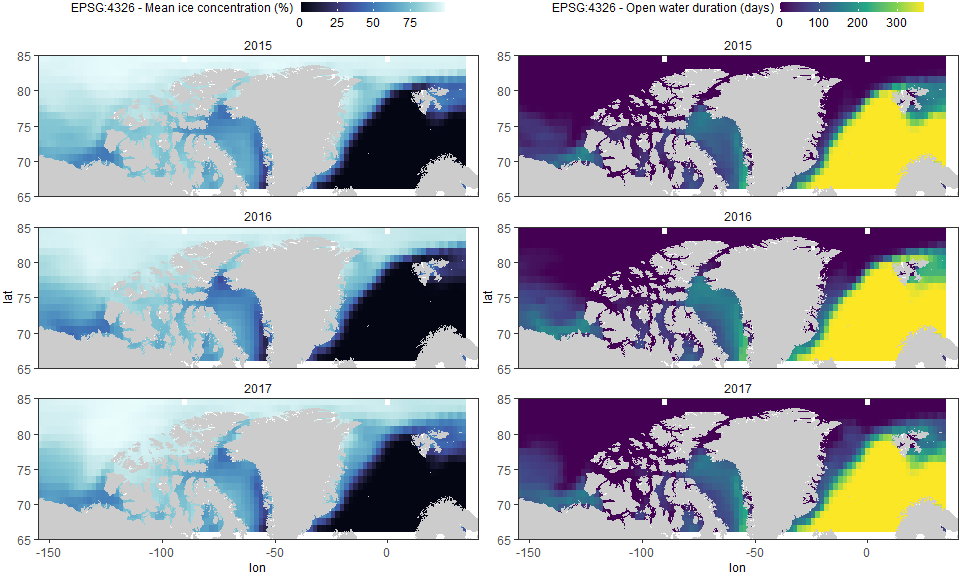
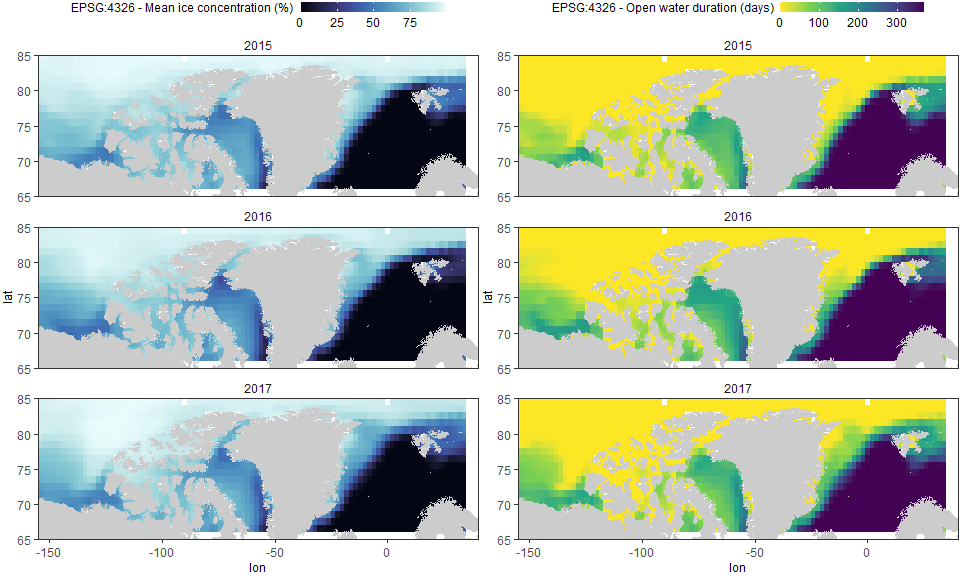
Updated grid resolution for CTD and remote sensing products.

diff --git a/PanArctic_DSL_remote_sensing.md b/PanArctic_DSL_remote_sensing.md
@@ -1,7 +1,7 @@
 PanArctic DSL - Remote sensing
 ================
 [Pierre Priou](mailto:pierre.priou@mi.mun.ca)
-2022/02/04 at 18:18
+2022/02/09 at 11:02
 
 # Package loading
 
@@ -154,14 +154,14 @@ plot_grid(read_csv("data/remote_sensing/sea_ice/20151231_laea_ice_conc.csv") %>%
             geom_tile() + 
             scale_fill_cmocean("Ice concentration (%)", name = "ice") +
             ggtitle("2015-02-12 - CDR") + 
-            coord_fixed(expand = c(0, 0)) +
+            coord_fixed(expand = F) +
             theme(legend.position = "top", legend.key.height = unit(0.1, "in"), legend.key.width = unit(0.3, "in")),
           read_csv("data/remote_sensing/sea_ice/20170212_laea_ice_conc.csv") %>%
             ggplot(aes(x = xc, y = yc, fill = ice_conc)) + 
             geom_tile() + 
             scale_fill_cmocean("Ice concentration (%)", name = "ice") +
             ggtitle("2017-02-12 - ICDR") + 
-            coord_fixed(expand = c(0, 0)) +
+            coord_fixed(expand = F) +
             theme(legend.position = "top", legend.key.height = unit(0.1, "in"), legend.key.width = unit(0.3, "in")),
           ncol = 2, align = "hv", axis = "tblr")
 ```
@@ -209,10 +209,10 @@ and sea ice duration.
 More info on this projection can be found on the [NSIDC
 website](https://nsidc.org/data/ease/). Because “raw” sea ice data has a
 25 km \* 25 km resolution, I match that resolution to the final
-projection (100 km \* 100 km).
+projection (150 km \* 150 km).
 
 ``` r
-cell_res <- 100 # Cell resolution in km
+cell_res <- 150 # Cell resolution in km
 arctic_laea <- raster(extent(-2700, 2700, -2700, 2700), crs = "EPSG:6931") # Seaice projection
 projection(arctic_laea) <- gsub("units=m", "units=km", projection(arctic_laea)) # Convert proj unit from m to km
 res(arctic_laea) <- c(cell_res, cell_res) # Define the 100 km cell resolution
@@ -264,8 +264,9 @@ plot_grid(seaice_grid_laea %>% # Map mean ice concentration
             scale_fill_cmocean("EPSG:6931 - Mean ice concentration (%)", name = "ice") +
             geom_polygon(data = coast_10m_laea, aes(x = xc, y = yc, group = group), fill = "grey80") +
             facet_wrap(~ year, ncol = 3) +
-            coord_fixed(xlim = c(-2700, 1300), ylim = c(-1900, 2000), expand = c(0, 0)) +
-            theme(legend.position = "top", legend.key.height = unit(0.1, "in"), legend.key.width = unit(0.3, "in")),
+            coord_fixed(xlim = c(-2600, 1100), ylim = c(-1800, 1900), expand = F) + 
+            theme(legend.position = "top", legend.key.height = unit(0.1, "in"), legend.key.width = unit(0.3, "in"),
+                  axis.text = element_blank(), axis.ticks = element_blank(), axis.title = element_blank()),
           seaice_grid_laea %>% # Map openwater duration
             filter(is.na(mean_ice_conc) == F) %>% # Remove land
             ggplot() +
@@ -273,8 +274,9 @@ plot_grid(seaice_grid_laea %>% # Map mean ice concentration
             scale_fill_viridis_c("EPSG:6931 - Open water duration (days)") +
             geom_polygon(data = coast_10m_laea, aes(x = xc, y = yc, group = group), fill = "grey80") +
             facet_wrap(~ year, ncol = 3) +
-            coord_fixed(xlim = c(-2700, 1300), ylim = c(-1900, 2000), expand = c(0, 0)) +
-            theme(legend.position = "top", legend.key.height = unit(0.1, "in"), legend.key.width = unit(0.3, "in")),
+            coord_fixed(xlim = c(-2600, 1100), ylim = c(-1800, 1900), expand = F) + 
+            theme(legend.position = "top", legend.key.height = unit(0.1, "in"), legend.key.width = unit(0.3, "in"),
+                  axis.text = element_blank(), axis.ticks = element_blank(), axis.title = element_blank()),
           ncol = 1, align = "hv", axis = "tblr")
 ```
 
@@ -331,16 +333,16 @@ plot_grid(seaice_grid_latlon %>% # Map mean ice concentration
             scale_fill_cmocean("EPSG:4326 - Mean ice concentration (%)", name = "ice") +
             geom_polygon(data = coast_10m_latlon, aes(x = lon, y = lat, group = group), fill = "grey80") +
             facet_wrap(~ year, ncol = 1) +
-            coord_cartesian(xlim = c(-155, 40), ylim = c(65, 85), expand = c(0, 0))  +
+            coord_cartesian(xlim = c(-155, 40), ylim = c(65, 85), expand = F)  +
             theme(legend.position = "top", legend.key.height = unit(0.1, "in"), legend.key.width = unit(0.3, "in")),
           seaice_grid_latlon %>% # Map absolute salinity
             filter(is.na(mean_ice_conc) == F) %>% # Remove land
             ggplot() +
             geom_tile(aes(x = lon, y = lat, fill = openwater_duration)) +
-            scale_fill_viridis_c("EPSG:4326 - Open water duration (days)") +
+            scale_fill_viridis_c("EPSG:4326 - Open water duration (days)", direction = -1) +
             geom_polygon(data = coast_10m_latlon, aes(x = lon, y = lat, group = group), fill = "grey80") +
             facet_wrap(~ year, ncol = 1) +
-            coord_cartesian(xlim = c(-155, 40), ylim = c(65, 85), expand = c(0, 0))  +
+            coord_cartesian(xlim = c(-155, 40), ylim = c(65, 85), expand = F)  +
             theme(legend.position = "top", legend.key.height = unit(0.1, "in"), legend.key.width = unit(0.3, "in")),
           ncol = 2, align = "hv", axis = "tblr")
 ```

diff --git a/PanArctic_DSL_CTD.md b/PanArctic_DSL_CTD.md
@@ -1,7 +1,7 @@
 PanArctic DSL - CTD
 ================
 [Pierre Priou](mailto:pierre.priou@mi.mun.ca)
-2022/02/08 at 10:40
+2022/02/09 at 10:58
 
 # Package loading
 
@@ -33,10 +33,9 @@ CTD data were collected regularly during each of the survey. To match
 CTD records with acoustic data, I rasterized CTD data on the same grid
 as the acoustic data. I tried two different grids; the WGS84 projection
 (EPSG:4326) with grid cells of 2°lon \* 1°lat, and the EASE-Grid 2.0
-North (EPSG:6931) with grid cells of 100 km \* 100 km which is the
-default grid for sea-ice data. For each cell I calculated the mean
-conservative temperature and absolute salinity between 200 and 1000 m
-depth.
+North (EPSG:6931) with grid cells of 150 km \* 150 km. For each cell I
+calculated the mean conservative temperature and absolute salinity
+between 200 and 1000 m depth.
 
 ``` r
 load("data/CTD/CTD_2015_2019.RData") # CTD data
@@ -99,7 +98,7 @@ plot_grid(CTD_grid_latlon %>% # Map conservative temperature
             geom_tile(aes(x = lon, y = lat, fill = cons_temp)) +
             scale_fill_cmocean("EPSG:4326 - Mesopelagic cons. temp. (°C)", name = "thermal") +
             facet_wrap(~ year, ncol = 1) +
-            coord_cartesian(xlim = c(-155, 40), ylim = c(65, 85), expand = c(0, 0))  +
+            coord_cartesian(xlim = c(-155, 40), ylim = c(65, 85), expand = F)  +
             theme(legend.position = "top", legend.key.height = unit(0.1, "in"), legend.key.width = unit(0.3, "in")),
           CTD_grid_latlon %>% # Map absolute salinity
             ggplot() +
@@ -107,7 +106,7 @@ plot_grid(CTD_grid_latlon %>% # Map conservative temperature
             geom_tile(aes(x = lon, y = lat, fill = abs_sal)) +
             scale_fill_cmocean("EPSG:4326 - Mesopelagic abs. sal. (g/kg)", name = "haline") +
             facet_wrap(~ year, ncol = 1) +
-            coord_cartesian(xlim = c(-155, 40), ylim = c(65, 85), expand = c(0, 0))  +
+            coord_cartesian(xlim = c(-155, 40), ylim = c(65, 85), expand = F)  +
             theme(legend.position = "top", legend.key.height = unit(0.1, "in"), legend.key.width = unit(0.3, "in")),
           ncol = 2, align = "hv", axis = "tblr")
 ```
@@ -120,7 +119,7 @@ More info on this projection can be found on the [NSIDC
 website](https://nsidc.org/data/ease/).
 
 ``` r
-cell_res <- 100 # Cell resolution in km
+cell_res <- 150 # Cell resolution in km
 arctic_laea <- raster(extent(-2700, 2700, -2700, 2700), crs = "EPSG:6931") # Seaice projection
 projection(arctic_laea) <- gsub("units=m", "units=km", projection(arctic_laea)) # Convert proj unit from m to km
 res(arctic_laea) <- c(cell_res, cell_res) # Define the 100 km cell resolution
@@ -176,16 +175,18 @@ plot_grid(CTD_grid_laea %>% # Map conservative temperature
             geom_tile(aes(x = xc, y = yc, fill = cons_temp)) +
             scale_fill_cmocean("EPSG:6931 - Mesopelagic cons. temp. (°C)", name = "thermal") +
             facet_wrap(~ year, ncol = 3) +
-            coord_fixed(xlim = c(-2700, 1300), ylim = c(-1900, 2000), expand = c(0, 0)) +
-            theme(legend.position = "top", legend.key.height = unit(0.1, "in"), legend.key.width = unit(0.3, "in")),
+            coord_fixed(xlim = c(-2600, 1100), ylim = c(-1800, 1900), expand = F) + 
+            theme(legend.position = "top", legend.key.height = unit(0.1, "in"), legend.key.width = unit(0.3, "in"),
+                  axis.text = element_blank(), axis.ticks = element_blank(), axis.title = element_blank()),
           CTD_grid_laea %>% # Map absolute salinity
             ggplot() +
             geom_polygon(data = coast_10m_laea, aes(x = xc, y = yc, group = group), fill = "grey80") +
             geom_tile(aes(x = xc, y = yc, fill = abs_sal)) +
             scale_fill_cmocean("EPSG:6931 - Mesopelagic abs. sal. (g/kg)", name = "haline") +
             facet_wrap(~ year, ncol = 3) +
-            coord_fixed(xlim = c(-2700, 1300), ylim = c(-1900, 2000), expand = c(0, 0)) +
-            theme(legend.position = "top", legend.key.height = unit(0.1, "in"), legend.key.width = unit(0.3, "in")),
+            coord_fixed(xlim = c(-2600, 1100), ylim = c(-1800, 1900), expand = F) + 
+            theme(legend.position = "top", legend.key.height = unit(0.1, "in"), legend.key.width = unit(0.3, "in"),
+                  axis.text = element_blank(), axis.ticks = element_blank(), axis.title = element_blank()),
           ncol = 1, align = "hv", axis = "tblr")
 ```
 
